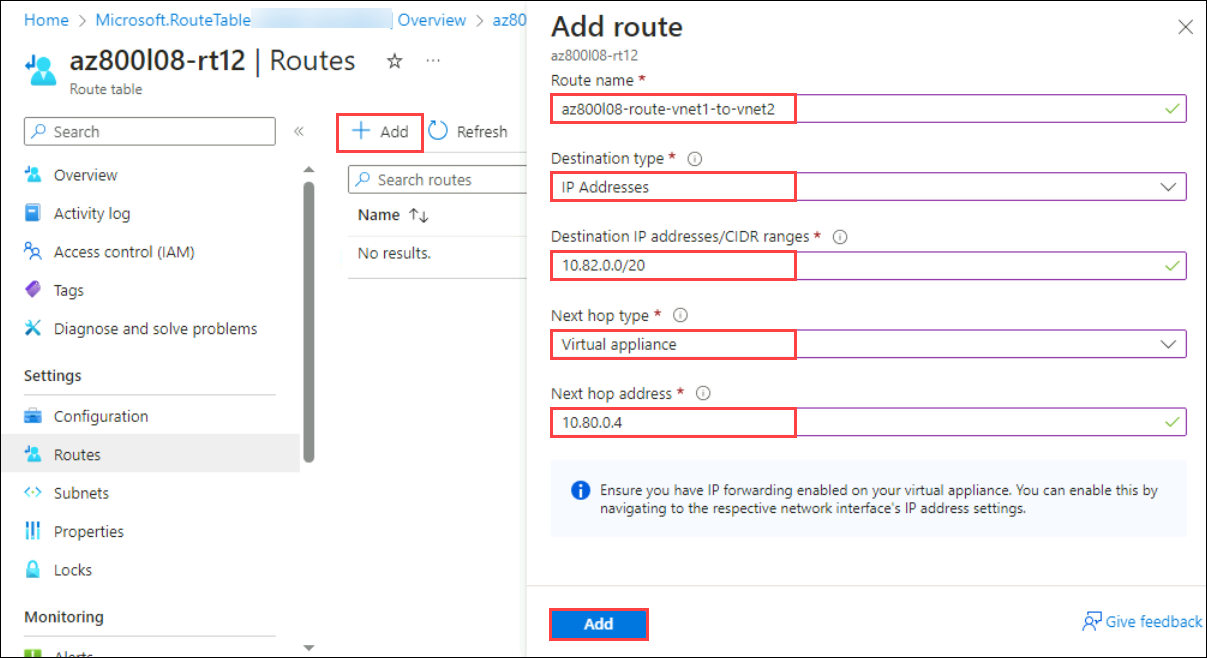
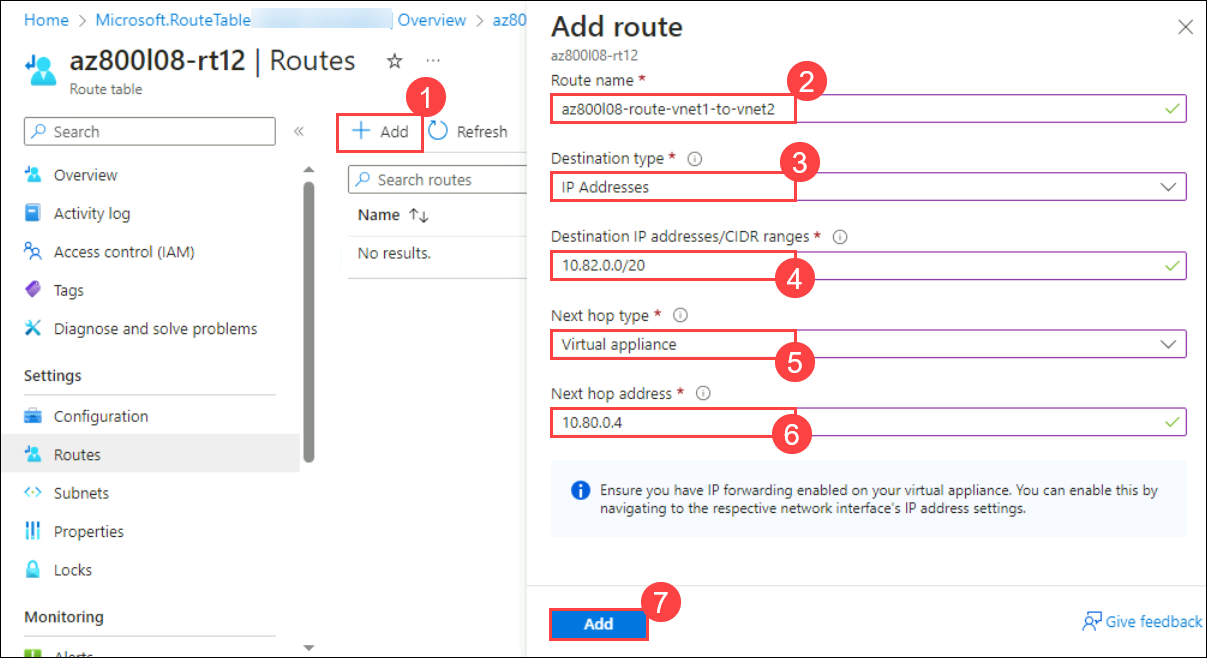
updated

diff --git a/Instructions/Labs/LAB_AK_06_Deploying_and_configuring_Windows_Server_on_Azure_VMs.md b/Instructions/Labs/LAB_AK_06_Deploying_and_configuring_Windows_Server_on_Azure_VMs.md
@@ -36,9 +36,8 @@ Virtual machines: **AZ-800T00A-SEA-DC1** and **AZ-800T00A-ADM1** must be running
 
 1. Sign in using the following credentials:
 
-   - Username: **Administrator**
+   - Username: **CONTOSO\Administrator**
    - Password: **Pa55w.rd**
-   - Domain: **CONTOSO**
 
 For this lab, you'll use the available VM environment and an Azure subscription. Before you begin the lab, ensure that you have an Azure subscription and a user account with the Owner or Contributor role in that subscription.
 
@@ -62,7 +61,7 @@ In this task, you will connect to your Azure subscription and enable enhanced se
 
 3. In the Azure portal, in the **Search resources, services, and docs** text box, on the toolbar, search for and select **Microsoft Defender for Cloud**.
 
-4. On the **Microsoft Defender for Cloud \| Getting started** page, select **Upgrade**, and then select **Install agents**.
+4. On the **Microsoft Defender for Cloud \| Getting started** page, select **Upgrade**.
 
 #### Task 2: Generate an ARM template and parameters files by using the Azure portal
 
@@ -79,7 +78,7 @@ In this task, you will use the Azure portal to create resource groups and create
    |Virtual machine name|**az800l06-vm0**|
    |Region|Use the name of an Azure region in which you can provision Azure virtual machines|
    |Availability options|No infrastructure redundancy required|
-   |Image|**Windows Server 2022 Datacenter: Azure Edition - Gen2**|
+   |Image|**Windows Server 2022 Datacenter: Azure Edition - x64 Gen2**|
    |Run with Azure Spot discount|No|
    |Size|**Standard_D2s_v3**|
    |Username|**Student**|
@@ -154,27 +153,28 @@ In this task, you will use the Azure portal to create resource groups and create
 #### Task 2: Add an Azure VM extension section to the existing template
 
 1. On **SEA-ADM1**, in the Notepad window displaying the content of the **template.json** file, insert the following code directly after the `    "resources": [` line):
+   
    >**Note**: If you are using a tool that pastes the code in line by line, intellisense may add extra brackets causing validation errors. You may want to paste the code into notepad first and then paste it into the JSON file.
 
    ```json
-        {
-           "type": "Microsoft.Compute/virtualMachines/extensions",
-           "name": "[concat(parameters('virtualMachineName'), '/customScriptExtension')]",
-           "apiVersion": "2018-06-01",
-           "location": "[resourceGroup().location]",
-           "dependsOn": [
-               "[concat('Microsoft.Compute/virtualMachines/', parameters('virtualMachineName'))]"
-           ],
-           "properties": {
-               "publisher": "Microsoft.Compute",
-               "type": "CustomScriptExtension",
-               "typeHandlerVersion": "1.7",
-               "autoUpgradeMinorVersion": true,
-               "settings": {
-                   "commandToExecute": "powershell.exe Install-WindowsFeature -name Web-Server -IncludeManagementTools && powershell.exe remove-item 'C:\\inetpub\\wwwroot\\iisstart.htm' && powershell.exe Add-Content -Path 'C:\\inetpub\\wwwroot\\iisstart.htm' -Value $('Hello World from ' + $env:computername)"
-              }
-           }
-        },
+   {
+      "type": "Microsoft.Compute/virtualMachines/extensions",
+      "name": "[concat(parameters('virtualMachineName'), '/customScriptExtension')]",
+      "apiVersion": "2018-06-01",
+      "location": "[resourceGroup().location]",
+      "dependsOn": [
+         "[concat('Microsoft.Compute/virtualMachines/', parameters('virtualMachineName'))]"
+      ],
+      "properties": {
+         "publisher": "Microsoft.Compute",
+         "type": "CustomScriptExtension",
+         "typeHandlerVersion": "1.7",
+         "autoUpgradeMinorVersion": true,
+         "settings": {
+               "commandToExecute": "powershell.exe Install-WindowsFeature -name Web-Server -IncludeManagementTools && powershell.exe remove-item 'C:\\inetpub\\wwwroot\\iisstart.htm' && powershell.exe Add-Content -Path 'C:\\inetpub\\wwwroot\\iisstart.htm' -Value $('Hello World from ' + $env:computername)"
+         }
+      }
+   },
    ```
 
 1. Save the change and close the file.
@@ -229,8 +229,13 @@ In this task, you will use the Azure portal to create resource groups and create
    ![](media/az-800-lab06-12.png)
 
 1. On the **Microsoft.Template \| Overview** page, select **Template**, and note that this is the same template you used for deployment.
+
+> **Congratulations** on completing the task! Now, it's time to validate it. Here are the steps:
+> - Hit the Validate button for the corresponding task. If you receive a success message, you can proceed to the next task. 
+> - If not, carefully read the error message and retry the step, following the instructions in the lab guide.
+> - If you need any assistance, please contact us at labs-support@spektrasystems.com. We are available 24/7 to help.
    
-  <validation step="b33341ed-9083-4c7b-83db-8ba4fab02d26" />
+<validation step="b33341ed-9083-4c7b-83db-8ba4fab02d26" />
  
 ## Exercise 4: Configuring administrative access to Azure VMs running Windows Server
 
@@ -242,13 +247,13 @@ In this task, you will use the Azure portal to create resource groups and create
 
 1. On the **Environment settings** page, expand and select the entry representing your Azure subscription.
 
-   ![](media/az-800-lab06-10.png)
+      ![](media/az-800-lab06-10.png)
 
 1. On the **Settings \| Defender plans** page, select **Settings & monitoring**.
 
-1. On the **Settings & monitoring** page, in the list of extensions, to the right side of the **Log Analytics agent/Azure Monitor agent** entry, select the **Edit configuration** link.
+1. On the **Settings & monitoring** page, in the list of extensions, to the right side of the **Azure Monitoring Agent for SQL server on machines** entry, select **On (1)**, and select the **Edit configuration (2)** link.
 
-   ![](media/az-800-lab06-11.png)
+   ![](media/editconfiguration.png)
 
 1. On the **Auto-provisioning configuration**, in the **Workspace selection** ensure that the **Default workspace(s)** entry is selected, select **Apply**, and back on the **Settings & monitoring** page, select **Continue**.
 
@@ -264,9 +269,7 @@ In this task, you will use the Azure portal to create resource groups and create
 
 1. On the **Just-in-time VM access** page, review the **Configured**, **Not Configured**, and **Unsupported** tabs.
 
-   ![](media/az-800-lab06-08.png)
-
-   >**Note**: It might take up to 24 hours for the newly deployed VM to appear on the **Unsupported** tab. Rather than wait, continue to the next exercise.
+   >**Note**: If the newly created VM is not showing up in **Unsupported** tab, then it might take up to 24 hours for the newly deployed VM to appear on the **Unsupported** tab. Rather than wait, continue to the next exercise.
 
 ## Exercise 5: Configuring Windows Server security in Azure VMs
 
@@ -312,7 +315,7 @@ security rules**.
 
 1. On the **az800l06-vm0** page, under **Networking** section select **Network settings**.
 
-1. On the **az800l06-vm0 \| Network settings** page, select the link designating the network interface attached to **az800l06-vm0*****.
+1. On the **az800l06-vm0 \| Network settings** page, select the link designating the network interface attached to **az800l06-vm0**.
 
 1. On the page displaying the network interface properties, in the vertical menu on the left side, in the **Settings** section, select **Network security group**. 
 
@@ -328,7 +331,7 @@ security rules**.
    |Name|**az800l06-vm0-pip1**|
    |SKU|**Standard**|
       
-1. In the Azure portal, browse back to the **AZ800-L0601-RG** page, and then in the list of resources, select **az800106-vm0-pip1**, click on **Associate**, select **Resource Type** as **Network interface** and select **Network interface** as **az800106-vm0*****, click **OK**.
+1. In the Azure portal, browse back to the **AZ800-L0601-RG** page, and then in the list of resources, select **az800106-vm0-pip1**, click on **Associate**, select **Resource Type** as **Network interface** and select **Network interface** as **az800106-vm0**, click **OK**.
 
 1. In the Azure portal, browse back to the **AZ800-L0601-RG** page, and then in the list of resources, select the entry representing the network interface, select **IP configurations** under **Settings**, and then select the **ipconfig1** entry.
 
@@ -387,7 +390,12 @@ security rules**.
 
 1. Verify that you can successfully access via Remote Desktop the operating system running in the Azure VM and close the Remote Desktop session.
 
-   <validation step="e61e31af-224b-4ff6-94d4-b86acfa02071" />
+> **Congratulations** on completing the task! Now, it's time to validate it. Here are the steps:
+> - Hit the Validate button for the corresponding task. If you receive a success message, you can proceed to the next task. 
+> - If not, carefully read the error message and retry the step, following the instructions in the lab guide.
+> - If you need any assistance, please contact us at labs-support@spektrasystems.com. We are available 24/7 to help.
+
+<validation step="e61e31af-224b-4ff6-94d4-b86acfa02071" />
  
 ### Review
 In this lab, you have completed:

diff --git a/Instructions/Labs/LAB_AK_04_Using_Windows_Admin_Center_in_hybrid_scenarios.md b/Instructions/Labs/LAB_AK_04_Using_Windows_Admin_Center_in_hybrid_scenarios.md
@@ -34,7 +34,7 @@ In this lab, you will perform:
 
 1. If prompted to select either **Bash** or **PowerShell**, select **PowerShell**.
 
-   >**Note**: If this is the first time you are starting Cloud Shell and you are presented with the **Getting started** page, select the subscription you are using in this lab, and then select **No storage account required**.
+   >**Note**: If this is the first time you are starting Cloud Shell and you are presented with the **Getting started** page, select the subscription you are using in this lab, then select **No storage account required**, and apply **Apply**.
 
 1. In the toolbar of the Cloud Shell pane, select the **Manage Files** icon, in the drop-down menu, select **Upload**, and then upload the **C:\Labfiles\AZ-800-Administering-Windows-Server-Hybrid-Core-Infrastructure-master\Allfiles\Labfiles\Lab04\L04-sub_template.json** file to the Cloud Shell home directory.
 
@@ -77,7 +77,12 @@ In this lab, you will perform:
 
 1. On the **Add subnet** page, set the **Starting address** to **10.4.3.224/27**, and then select **Save** to create the **GatewaySubnet**.
 
-  <validation step="f7861d50-4d57-462e-9da5-c570cc410428" />
+> **Congratulations** on completing the task! Now, it's time to validate it. Here are the steps:
+> - Hit the Validate button for the corresponding task. If you receive a success message, you can proceed to the next task. 
+> - If not, carefully read the error message and retry the step, following the instructions in the lab guide.
+> - If you need any assistance, please contact us at labs-support@spektrasystems.com. We are available 24/7 to help.
+
+<validation step="f7861d50-4d57-462e-9da5-c570cc410428" />
 
 ## Exercise 2: Implementing hybrid connectivity by using the Azure Network Adapter
 
@@ -113,13 +118,19 @@ In this lab, you will perform:
 
 1. In **Windows Admin Center**, select **Settings** (from the upper-right corner of the page) > **Extensions**. Then select **Extensions**:
 
-   ![](media/extended-network.png) 
+   ![](media/extensions.png) 
 
-1. On the **Available extensions** tab, select **Azure Extended network**, and then select **Install**.
+1. On the **Installed extensions** tab, check **Azure Extended network** is installed.
 
-   >**Note**: After a few seconds you should see a message indicating a successful installation.
+   >**Note:** If it is not installed then follow the below steps:
+   
+   > 1. On the **Available extensions** tab, select **Azure Extended network**, and then select **Install**.
+   
+   > 2. After a few seconds you should see a message indicating a successful installation.
 
-1. Navigate to **All connections** page from dropdown, select the **sea-adm1.contoso.com** entry. 
+1. Select **Settings (1)** dropdown, and from the dropdown select **All connections (2)**, select the **sea-adm1.contoso.com** entry. 
+
+   ![](media/settingsallconnections.png)
 
 1. In Windows Admin Center, from left pane, in the list of Tools, select **Networks**, and then select **+ Add Azure Network Adapter (Preview)**.
 
@@ -146,11 +157,12 @@ In this lab, you will perform:
 1. In Windows Admin Center, verify that the sign in was successful and close the newly opened tab of the Microsoft Edge window.
 
 1. In the **Get started with Azure in Windows Admin Center** pane, ensure that **Microsoft Entra application** is set to **Create new**, and then select **Connect**.
->**Note**: Please wait until it successfully connected to Azure AD.
 
-1. In the listing of the steps of the registration procedure, select **Sign in**. This will open a pop-up window labeled **Permissions requested**.
+   >**Note**: Please wait until it successfully connected to Azure AD.
 
-1. In the **Permissions requested** pop-up window, select **Consent on behalf of your organization**, and then select **Accept**.
+1. In the listing of the steps of the registration procedure, select **Sign in**.
+
+1. In the **Permissions requested** pop-up window, select **Accept**.
 
 #### Task 2: Create an Azure Network Adapter
 
@@ -176,7 +188,12 @@ In this lab, you will perform:
 
    >**Note**: The provisioning of the Azure virtual network gateway can take up to 45 minutes. Do not wait for the provisioning to complete but instead proceed to the next exercise.
 
-   <validation step="6f6f3210-37a2-496d-a45e-c3a5940bc94d" />
+<validation step="6f6f3210-37a2-496d-a45e-c3a5940bc94d" />
+
+> **Congratulations** on completing the task! Now, it's time to validate it. Here are the steps:
+> - Hit the Validate button for the corresponding task. If you receive a success message, you can proceed to the next task. 
+> - If not, carefully read the error message and retry the step, following the instructions in the lab guide.
+> - If you need any assistance, please contact us at labs-support@spektrasystems.com. We are available 24/7 to help.
 
 ## Exercise 3: Deploying Windows Admin Center gateway in Azure
 
@@ -248,9 +265,7 @@ In this lab, you will perform:
 
 1. Navigate to Virtual machines in the Azure portal and select **az800l04-vmwac**.
 
-1. On the left under **Settings**, click **Connect**.
-
-1. Click on **Download RDP file**.
+1. From the top navigation menu, select **Connect** dropdown and select **Connect**. Click on **Download RDP file**.
 
 1. Select **Open File**, then proceed by clicking **Connect** in the warning popup window.
 
@@ -260,7 +275,9 @@ In this lab, you will perform:
 
 1. Click the **Start** button and type **Edge**, click **Microsoft edge** and complete the Edge setup wizard.
 
-1. Enter **Windows Admin Center** in the URL field of Microsoft Edge, then click on the first link displayed in the search results.
+1. Enter **Windows Admin Center (1)** in the URL field of Microsoft Edge, then click on the first **link (2)** displayed in the search results.
+
+   ![](media/windows-admin-center.png)
 
 1. Select the **Download Windows Admin Center** button, then choose **Open file**. Close the Microsoft Edge browser. Proceed by checking the **I accept these terms** box, click **Next** five times, followed by **Install**. Finally, click **Finish** to complete the installation.
 
@@ -274,11 +291,16 @@ In this lab, you will perform:
 
 1. Copy the **Public IP Address** displayed on the Overview page. Next, open the Edge browser, right-click on the URL field, and choose the paste option. Ensure to prepend "https://" to the URL, and append the port number you configured for WAC, such as **443**. The resulting final URL should resemble this: **https://20.232.18.205:443/**. Finally, press the **Enter** key.
 
-1. Navigate back to Azure portal, select the Azure VM **az800l04-vmwac** entry, and then, on the **az800l04-vmwac** page, under **Settings** section select **Networking**.
+1. Navigate back to Azure portal, select the Azure VM **az800l04-vmwac** entry, and then, on the **az800l04-vmwac** page, under **Networking** section select **Network settings**.
 
-1. On the **az800l04-vmwac | Networking** page, on the **Inbound port rules** tab, note the entries representing the inbound port rule allowing connectivity on TCP port 5986 and the inbound rule allowing connectivity on TCP port 443.
+1. On the **az800l04-vmwac | Network settings** page, on the **Inbound port rules** tab, note the entries representing the inbound port rule allowing connectivity on TCP port 5986 and the inbound rule allowing connectivity on TCP port 443.
 
-  <validation step="e28d4114-d700-4946-b80d-7fc70ade9e46" />
+> **Congratulations** on completing the task! Now, it's time to validate it. Here are the steps:
+> - Hit the Validate button for the corresponding task. If you receive a success message, you can proceed to the next task. 
+> - If not, carefully read the error message and retry the step, following the instructions in the lab guide.
+> - If you need any assistance, please contact us at labs-support@spektrasystems.com. We are available 24/7 to help.
+
+<validation step="e28d4114-d700-4946-b80d-7fc70ade9e46" />
 
 ## Exercise 4: Verifying functionality of the Windows Admin Center gateway in Azure
 
@@ -300,7 +322,7 @@ In this lab, you will perform:
 
 1. On the **Virtual machines** page, select **az800l04-vm0**.
 
-1. On the **az800l04-vm0** page, in the **Operations** section, select **Run command**, and then select **RunPowerShellScript**.
+1. On the **az800l04-vm0** page, from the left navigation menu, under **Operations** section, select **Run command**, and then select **RunPowerShellScript**.
 
 1. If Windows Remote Management is disabled, on the **Run Command Script** page, in the **PowerShell Script** section, enter the following command, and then select **Run** to enable it.
 
@@ -329,6 +351,8 @@ In this lab, you will perform:
 1. On the **Add or create resources** page, in the **Servers** section, select **Add**.
 
 1. In the **Server name** text box, enter **az800l04-vm0**.
+
+   >**Note:** If you are getting any errors, ignore it and proceed with the next steps.
 
 1. Select the **Use another account for this connection** option, provide the **Student** username and **Pa55w.rd1234** password, and then select **Add with Credentials**.
 

diff --git a/Instructions/Labs/LAB_AK_08_Implementing_hybrid_networking_infrastructure.md b/Instructions/Labs/LAB_AK_08_Implementing_hybrid_networking_infrastructure.md
@@ -57,13 +57,13 @@ Virtual machines: **AZ-800T00A-SEA-DC1** and **AZ-800T00A-ADM1** must be running
 
  1. Intially you dont have a Mount Storage account, So follow the below steps to create a **Storage account**.
 
-      - Select the **Mount storage account**
-      - Select the available subscription from the drop down menu.
-      - Click on **Apply**.
+      - Select the **Mount storage account (1)**
+      - Select the available subscription from the drop down menu (2).
+      - Click on **Apply (3)**.
 
-      ![](media/az3.png)
+        ![](media/az3.png)
 
-1. Select **I want to create a storage account** and then click on **Next**.
+1. Select **I want to create a storage account (1)** and then click on **Next (2)**.
 
    ![](media/az4.png)
 
@@ -163,14 +163,12 @@ Virtual machines: **AZ-800T00A-SEA-DC1** and **AZ-800T00A-ADM1** must be running
 
     | Setting | Value |
     | --- | --- |
-    | This virtual network: Peering link name | **az800l08-vnet0_to_az800l08-vnet2** |
-    | Allow 'az800l08-vnet0' to access the peered virtual network | **Select the checkbox**|
-    | Allow 'az800l08-vnet0' to receive forwarded traffic from the peered virtual network| **Select the checkbox** |
-    | Remote virtual network: Peering link name | **az800l08-vnet2_to_az800l08-vnet0** |
+    | Remote virtual network: Peering link name | **az800l08-vnet0_to_az800l08-vnet2** |
     | Virtual network deployment model | **Resource manager** |
-    | Remote virtual network: Virtual network | **az800l08-vnet2** |
-    | Allow 'az800l08-vnet2' to access 'az800l08-vnet1'| **Select the checkbox**|
-    |Allow 'az800l08-vnet2' to receive forwarded traffic from 'az800l08-vnet1' | **Select the checkbox** |
+    | Virtual network | **az800l08-vnet2** |
+    |Local virtual network summary: Peering link name | **az800l08-vnet2_to_az800l08-vnet0** |
+    | Allow 'az800l08-vnet0' to access 'az800l08-vnet2' | **Select the checkbox** |
+    |
 
     >**Note**: This step establishes two peerings - one from **az800l08-vnet0** to **az800l08-vnet2** and the other from **az800l08-vnet2** to **az800l08-vnet0**. This completes setting up the hub and spoke topology (with the **az800l08-vnet0** virtual network serving the role of the hub, while **az800l08-vnet1** and **az800l08-vnet2** are its spokes).
 
@@ -180,7 +178,7 @@ Virtual machines: **AZ-800T00A-SEA-DC1** and **AZ-800T00A-ADM1** must be running
 
 1. In the Azure portal, in the **Search resources, services, and docs** text box in the toolbar, search for and select **Network Watcher**.
 
-1. On the **Network Watcher** page, from the left navigation pane under **Network diagnostic tools** section, select **Connection troubleshoot**.
+1. On the **Network Watcher** page, from the left navigation pane under **Network diagnostic tools (1)** section, select **Connection troubleshoot (2)**.
 
     ![](media/az9.png)
 
@@ -232,8 +230,6 @@ Virtual machines: **AZ-800T00A-SEA-DC1** and **AZ-800T00A-ADM1** must be running
     | URI, FQDN or IP address | **10.82.0.4** |
     | Protocol | **TCP** |
     | Destination Port | **3389** |
-
-    ![](media/az11.png)
 
 1. Select **Run diagnostic tests** and wait until results of the connectivity check are returned. Note that the status is **Unreachable**.
 
@@ -308,23 +304,22 @@ Virtual machines: **AZ-800T00A-SEA-DC1** and **AZ-800T00A-ADM1** must be running
 
 1. Select **Go to resource**.
 
-1. On the **az800l08-rt12** route table page, from the left-navigation menu, under the **Settings** section, select **Routes**, and then select **+ Add**.
+1. On the **az800l08-rt12** route table page, from the left-navigation menu, under the **Settings** section, select **Routes**, and then select **+ Add (1)**.
 
 1. Add a new route with the following settings:
 
     | Setting | Value |
     | --- | --- |
-    | Route name | **az800l08-route-vnet1-to-vnet2** |
-    | Destination Type | **IP Addresses** |
-    | Destination IP Address/CIDR ranges | **10.82.0.0/20** |
-    | Next hop type | **Virtual appliance** |
-    | Next hop address | **10.80.0.4** |
+    | Route name | **az800l08-route-vnet1-to-vnet2 (2)** |
+    | Destination Type | **IP Addresses (3)** |
+    | Destination IP Address/CIDR ranges | **10.82.0.0/20 (4)** |
+    | Next hop type | **Virtual appliance (5)** |
+    | Next hop address | **10.80.0.4 (6)** |
+    | Select **Add (7)**. |
 
     > **Note**: **10.80.0.4** represents the private IP address of **az800l08-vm0**. 
 
     ![](media/Ex-1-T4-S15.png)
-
-1. Select **Add**.
 
 1. Back on the **az800l08-rt12** route table page, from the left-navigation menu, under the **Settings** section, select **Subnets**, and then select **+ Associate**.
 
@@ -334,8 +329,6 @@ Virtual machines: **AZ-800T00A-SEA-DC1** and **AZ-800T00A-ADM1** must be running
     | --- | --- |
     | Virtual network | **az800l08-vnet1** |
     | Subnet | **subnet0** |
-
-     ![](media/az17.png)
 
 1. Select **OK**.
 
@@ -401,7 +394,12 @@ Virtual machines: **AZ-800T00A-SEA-DC1** and **AZ-800T00A-ADM1** must be running
 
     >**Note**: This is expected because the traffic between spoke virtual networks is now routed via the virtual machine located in the hub virtual network, which functions as a router.
 
-    <validation step="0ebb917b-c450-4512-b0e1-a353ee5517b8" />
+> **Congratulations** on completing the task! Now, it's time to validate it. Here are the steps:
+> - Hit the Validate button for the corresponding task. If you receive a success message, you can proceed to the next task. 
+> - If not, carefully read the error message and retry the step, following the instructions in the lab guide.
+> - If you need any assistance, please contact us at labs-support@spektrasystems.com. We are available 24/7 to help.
+
+<validation step="0ebb917b-c450-4512-b0e1-a353ee5517b8" />
 
 ### Exercise 2: Implement DNS name resolution in Azure
 
